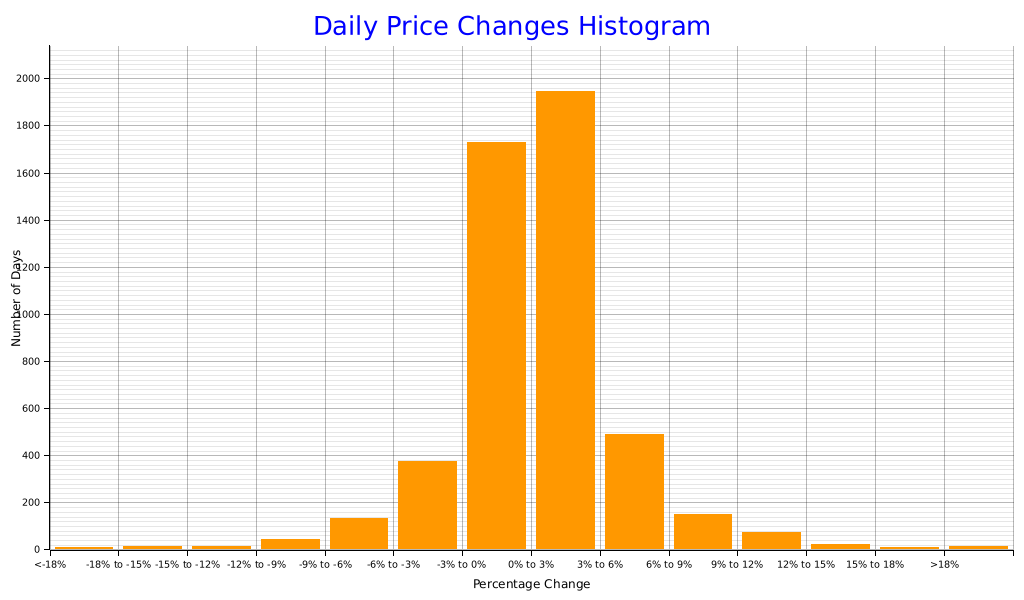
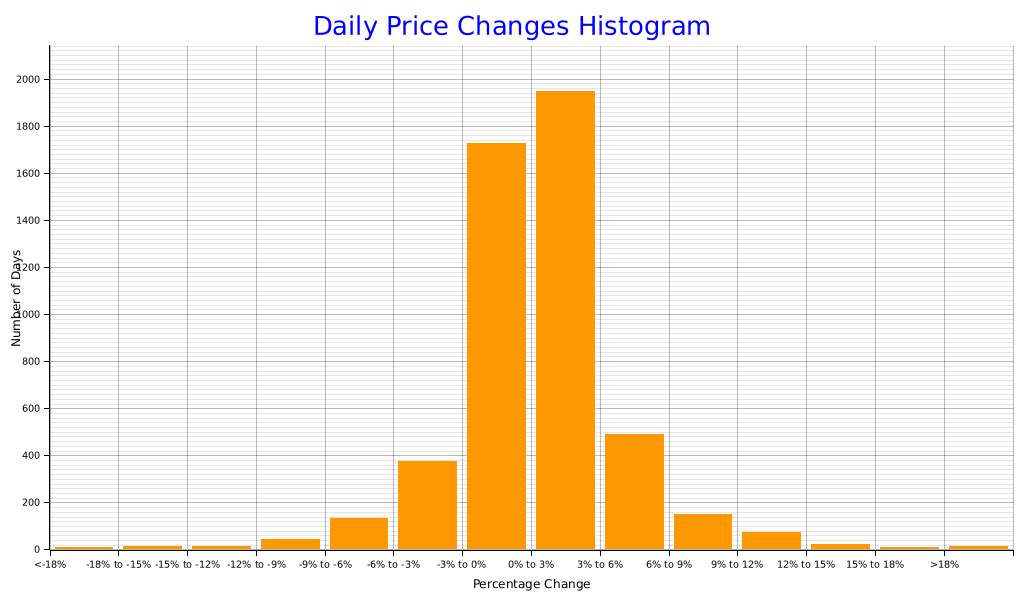
deploy: 33ad19df8a7f642849af7c199b92f08d1cdc9e02

diff --git a/index.html b/index.html
@@ -34,7 +34,7 @@
           <td>124,457.11</td>
           <td>74,436.67</td>
           <td></td>
-          <td>12,412,618,014,720.0</td>
+          <td>12,412,519,448,576.0</td>
         </tr>
         <tr>
           <td class='yearly-summary-year'>2024</td>
@@ -186,11 +186,11 @@
         </tr>
         <tr>
           <td>-3% to 0%</td>
-          <td>1728</td>
+          <td>1727</td>
         </tr>
         <tr>
           <td>0% to 3%</td>
-          <td>1945</td>
+          <td>1946</td>
         </tr>
         <tr>
           <td>3% to 6%</td>
@@ -227,7 +227,7 @@
     <br><br>
     <a href='https://github.com/bitcoin-tools/btracker'>Link to the report codebase</a>
     <br><br>
-    This report was last updated at 2025-09-07 02:56:09.076585531 UTC.
+    This report was last updated at 2025-09-07 03:35:21.969809924 UTC.
     <br><br>
     <div class='scrollable-table'>
       <table>
@@ -249,14 +249,14 @@
           <tr>
             <td>2025-09-07</td>
             <td>110,214.83</td>
-            <td>110,592.71</td>
+            <td>110,709.40</td>
             <td>110,214.83</td>
-            <td>110,584.61</td>
-            <td class='wma-column'>52,235.67</td>
-            <td>35.03 (0.06 %)</td>
-            <td>49,057.13 (79.7 %)</td>
-            <td>377.87 (0.3 %)</td>
-            <td>-66.36 (0.0 %)</td>
+            <td>110,693.85</td>
+            <td class='wma-column'>52,235.75</td>
+            <td>35.10 (0.06 %)</td>
+            <td>49,166.37 (79.9 %)</td>
+            <td>494.57 (0.4 %)</td>
+            <td>42.87 (0.0 %)</td>
           </tr>
           <tr>
             <td>2025-09-05</td>
